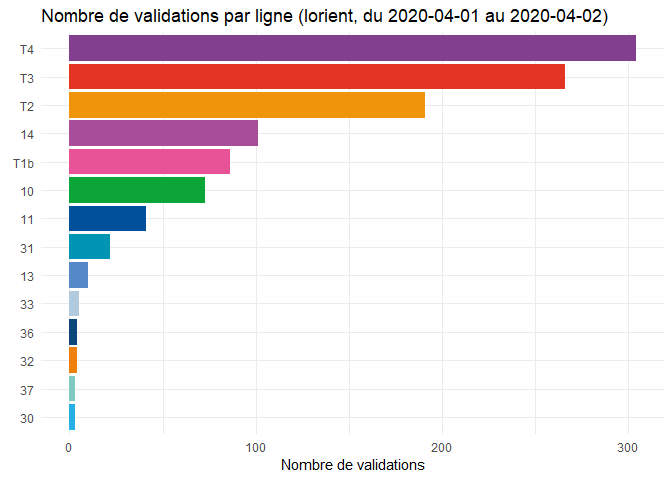
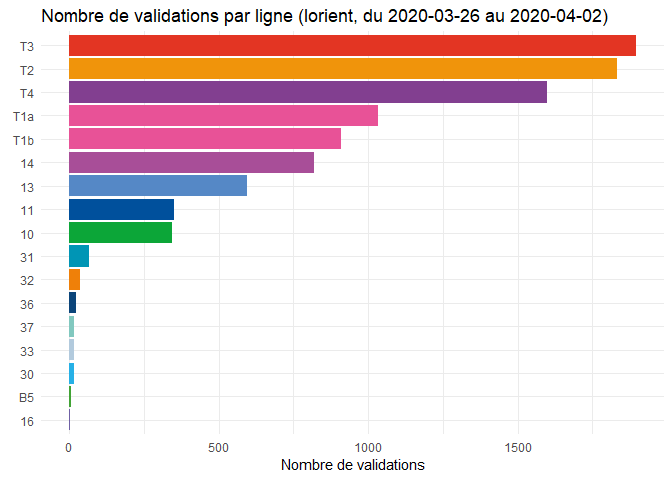
fixed KPI data retrieval in markdown demo

diff --git a/ticketing_by_line_sample/ticketing_by_line_sample.md b/ticketing_by_line_sample/ticketing_by_line_sample.md
@@ -6,36 +6,34 @@ Eglantine Schmitt
 # Log in
 
 ``` r
-sessionId = getSessionId(login_route, 
-                         auth_route, 
-                         credentials)
+session_id = getSessionId(login, 
+                          password, 
+                          group, 
+                          env)
 ```
 
 # Retrieve referential information and ticketing data
 
 ``` r
-lines = getResponseFromRoute(api_url,
-                             sessionId,
-                             "/rest/lines")
+api_base_url = buildBaseUrl(group, env)
 
-ticketing_raw_data = getResponseFromRoute(api_url,
-                                          sessionId,
-                                          "/kpis/ticketing/agency/17/line?aggregated_by_time=false&included_date_perimeters=2020-03-26_2020-04-02_1111111&excluded_date_perimeters=&ticket_type_id=all")
+referential_lines = getReferentialSection(api_base_url,session_id,"lines")
+
+agency_id = getAgencyId(api_base_url, session_id)
+
+ticketing_data = getKPIdata(api_base_url,"ticketing",agency_id, start_date = "2020-03-26", end_date = "2020-04-02",session_id = session_id)
 ```
 
 # Format and transform data
 
 ``` r
-referential_lines = do.call(rbind.data.frame, c(lines, stringsAsFactors = F))
-ticketing_data = do.call(rbind.data.frame, c(ticketing_raw_data$data, stringsAsFactors = F))
-
 ticketing_data = merge(x = ticketing_data, 
                        y = referential_lines,
                        by.x = "aggregation_level_id", 
                        by.y = "id")
 
-lines_colours = unique(ticketing_data$colour)
-names(lines_colours) = unique(ticketing_data$name)
+lines_colours = referential_lines$colour
+names(lines_colours) = referential_lines$name
 
 ticketing_per_line = 
   ticketing_data %>%
@@ -48,12 +46,12 @@ head(ticketing_per_line)
     ## # A tibble: 6 x 2
     ##   name  direction_in
     ##   <chr>        <int>
-    ## 1 10              73
-    ## 2 11              41
-    ## 3 13              10
-    ## 4 14             101
-    ## 5 30               3
-    ## 6 31              22
+    ## 1 10             343
+    ## 2 11             351
+    ## 3 13             596
+    ## 4 14             820
+    ## 5 16               2
+    ## 6 30              15
 
 # Visualise
 
